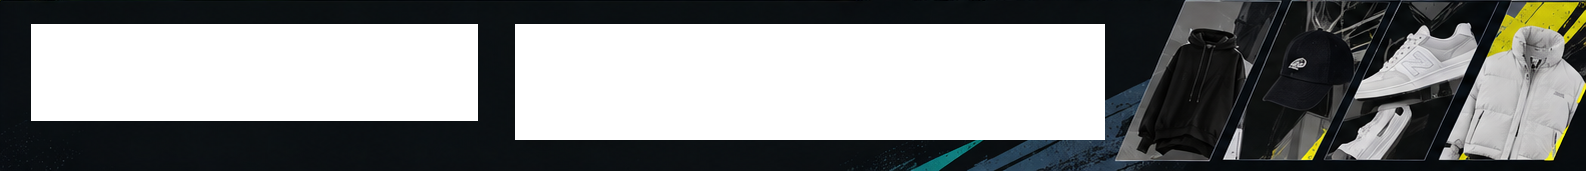
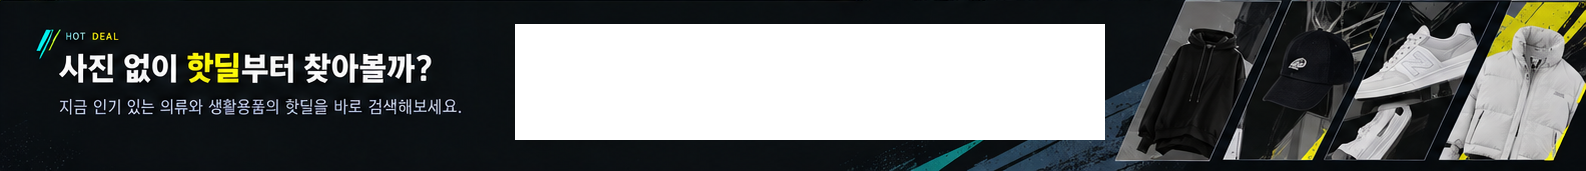
Restore original static typography and verify accessible controls

Changed region(s): [[0.0, 0.117, 0.309, 0.731]]

diff --git a/apps/web/src/styles.css b/apps/web/src/styles.css
@@ -17,23 +17,27 @@
 /* Original artwork under accessible DOM controls. Keep desktop coordinates immutable. */
 @media(min-width:768px){
  .header{background:#090c0f url('/artwork/header-surface.png') 0 0/1586px 55px no-repeat}
+ .header img{transform:translateY(-1px)}
  .header nav{gap:34px;font-size:19px;font-weight:500}
  .header nav .nav-active{font-size:20px;font-weight:750}
  .deals{background:#090e12 url('/artwork/deal-surface.png') 0 0/1586px 171px no-repeat}
- .hero{background-color:#fbff20;background-image:url('/artwork/hero-surface.png'),url('/artwork/subhead-fill.png'),url('/artwork/upload-copy-fill.png'),url('/artwork/upload-control-fill.png'),url('/artwork/upload-help-fill.png'),url('/artwork/steps-fill.png');background-position:0 0,50px 299px,202px 459px,182px 542px,289px 613px,59px 677px;background-size:1586px 766px,707px 44px,427px 77px,450px 70px,250px 25px,698px 68px;background-repeat:no-repeat}
+ .hero{background-color:#fbff20;background-image:url('/artwork/hero-surface.png'),url('/artwork/upload-copy-fill.png'),url('/artwork/upload-control-fill.png'),url('/artwork/upload-help-fill.png');background-position:0 0,202px 459px,182px 542px,289px 613px;background-size:1586px 766px,427px 77px,450px 70px,250px 25px;background-repeat:no-repeat}
  .hero-edge,.hero-collage{display:none}
  /* The distinctive hero lettering is retained in the original artwork, with semantic text for assistive technology. */
  .headline,.headline strong{color:transparent}
  .headline{font-size:52px;letter-spacing:-2.7px;top:237px}
  .subhead{font-size:30px;letter-spacing:-.3px}
+ /* Retain the original static lettering, while keeping its semantic DOM text. */
+ .subhead,.steps p,.deal-copy h2,.deal-copy em,.deal-copy>p,.deal-copy .eyebrow,.deal-copy .eyebrow>*{color:transparent}
  .upload-wrap{padding:0;background:transparent;clip-path:none}
  .upload-panel{background:transparent;clip-path:none}
  .upload-panel h2{top:113px}
  .upload-description{top:157px}
- .upload-cta{left:125px;top:194px}
+ .upload-cta{left:125px;top:194px;font-size:29px;clip-path:polygon(21px 0,calc(100% - 20px) 0,100% 22px,100% 45px,calc(100% - 19px) 100%,20px 100%,0 44px,0 22px)}
  .upload-icon{top:34px;left:305px}
  .upload-help{top:268px}
- .steps>div:before{content:'';display:block;width:53px;height:54px;background-size:100% 100%;flex-shrink:0}
+ .steps>div:before{content:'';display:block;width:53px;height:54px;flex-shrink:0;visibility:hidden}
+ .steps>div+div{border-left-color:transparent}
  .steps>div:nth-child(1):before{background-image:url('/artwork/step-shirt.png')}
  .steps>div:nth-child(2):before{background-image:url('/artwork/step-search.png')}
  .steps>div:nth-child(3):before{background-image:url('/artwork/step-bag.png')}
@@ -42,10 +46,26 @@
  .deal-copy h2{font-size:34px;letter-spacing:-.9px}
  .deal-copy>p{font-size:17.5px}
  .deal-filters button{position:relative;isolation:isolate;border:0;background:#677080;padding:0 18px}
+ .deal-filters{gap:0}
+ .deal-filters button{padding:0;justify-content:center}
+ .deal-filters button:nth-child(1){width:97px;margin-right:12px}
+ .deal-filters button:nth-child(2){width:116px;margin-right:8px}
+ .deal-filters button:nth-child(3){width:145px}
  .deal-filters button:before{content:'';position:absolute;inset:1px;background:#090e12;clip-path:inherit;z-index:-1}
  .deal-filters button[aria-pressed=true]{background:#ffff00}
- .search-field{border:0;background:#737985;isolation:isolate}
+ .search-field{height:54px;border:0;background:#737985;isolation:isolate;clip-path:polygon(8px 0,calc(100% - 12px) 0,100% 20px,calc(100% - 26px) 100%,0 100%,0 8px)}
+ .search-field input{padding-left:60px}
  .search-field:before{content:'';position:absolute;inset:1px;background:#090e12;clip-path:inherit;z-index:-1}
+}
+@media(min-width:768px) and (forced-colors:active){
+ .header,.hero,.deals{background:Canvas;color:CanvasText}
+ .headline,.headline strong,.subhead,.steps p,.deal-copy h2,.deal-copy em,.deal-copy>p,.deal-copy .eyebrow,.deal-copy .eyebrow>*{color:CanvasText}
+ .steps>div:before{display:none}
+ .steps svg{display:block}
+ .upload-wrap{border:2px solid ButtonText}
+ .upload-cta,.search-field,.deal-filters button{clip-path:none;border:2px solid ButtonText;background:ButtonFace;color:ButtonText}
+ .search-field:before,.deal-filters button:before{display:none}
+ .deal-filters button[aria-pressed=true]{outline:2px solid Highlight;outline-offset:2px}
 }
 @media(max-width:767px){.hero-collage{clip-path:polygon(20% 0,100% 0,100% 100%,0 100%,0 45%)}}
 @media(max-width:767px){

diff --git a/tests/e2e/home.spec.ts b/tests/e2e/home.spec.ts
@@ -12,6 +12,29 @@ const viewports = [
   { width: 360, height: 800 },
 ];
 
+test('high contrast keeps original-artwork captions readable and upload usable', async ({ page }) => {
+  await page.setViewportSize({ width: 1586, height: 992 });
+  await page.emulateMedia({ forcedColors: 'active' });
+  await page.goto('/');
+  await waitForArtwork(page);
+  // High-contrast mode removes decorative backgrounds. The corresponding DOM
+  // captions must remain readable rather than disappearing with their artwork.
+  for (const selector of ['.headline', '.subhead', '.steps p', '.deal-copy h2', '.deal-copy>p']) {
+    const colors = await page.locator(selector).evaluateAll(elements => elements.map(element => {
+      const color = getComputedStyle(element).color;
+      const sectionColor = getComputedStyle(element.closest('section')!).backgroundColor;
+      return { color, sectionColor };
+    }));
+    expect(colors.every(({ color, sectionColor }) => color !== 'transparent' && color !== 'rgba(0, 0, 0, 0)' && color !== sectionColor)).toBe(true);
+  }
+  await page.locator('#clothes-photo').setInputFiles(resolve('apps/web/public/artwork/hero-collage.png'));
+  await expect(page.getByRole('button', { name: '비슷한 옷 찾기', exact: true })).toBeVisible();
+  await page.getByRole('button', { name: '삭제', exact: true }).click();
+  await expect(page.getByRole('button', { name: '사진 올리기', exact: true })).toBeVisible();
+  await mkdir(captures, { recursive: true });
+  await page.screenshot({ path: resolve(captures, 'home-high-contrast.png'), fullPage: true });
+});
+
 for (const viewport of viewports) {
   test(`home renders functional controls without overflow at ${viewport.width}x${viewport.height}`, async ({ page }) => {
     await page.setViewportSize(viewport);

diff --git a/docs/deployment-readiness.md b/docs/deployment-readiness.md
@@ -6,7 +6,7 @@ Checked on 2026-10-09 (Asia/Seoul). This records verified deployment access, not
 
 - Repository created: https://github.com/NoNamad5196/ssandevisthan. The new repository was empty when created; no existing repository was modified. It is now private because its design assets and internal Notion contracts are not authorized for unrestricted source distribution.
 - GitHub CLI authentication works outside the restricted network sandbox. The initial sandboxed `gh auth status` failure was not an expired credential. Existing keyring authentication includes `repo` and `workflow` scope. Never print or copy its credential.
-- Cloudflare Pages project `ssandevisthan` was created on the existing account. The frontend is live at https://ssandevisthan.pages.dev. GitHub Actions successfully deployed both the frontend and backend from commit `f095991f621e437bcc6ba2e2f2fb12d0533ba04c`. External Chromium verified HTTP 200, production backend communication, the upload flow, and no page errors. Paid product search remains disabled pending its separate release gates.
+- Cloudflare Pages project `ssandevisthan` was created on the existing account. The frontend is live at https://ssandevisthan.pages.dev. GitHub Actions successfully deployed both the frontend and backend from commit `01bc435ecf72a788a191cf801c8b39c767e078e6`; its immutable frontend is https://978929ac.ssandevisthan.pages.dev. External Chromium verified HTTP 200, production backend communication, the upload flow, and no page errors. Paid product search remains disabled pending its separate release gates.
 - Supabase dashboard login works for organization **NoNamad / Free**. New-project creation is blocked because the owner has reached the **2 active free project** limit. No existing project was paused, deleted, upgraded, or reused.
 - The user declined pausing existing Supabase services and authorized an alternative free backend. A new dedicated Neon Free organization `org-cool-smoke-12777013` and project `lucky-sun-06718695` (`ssandevisthan`, AWS Singapore) were created with Postgres, Functions, and private `search-images` object storage. Neon Auth and AI Gateway are disabled because the application implements the contract's anonymous sessions itself and calls OpenAI directly. Existing Neon and Supabase resources were left unchanged.
 - A project-scoped Neon API key is stored only in ignored local deployment configuration and the encrypted GitHub `NEON_API_KEY` secret. Broad account-wide CLI OAuth was rejected by automatic approval review and was not granted; the narrower project key solved deployment access. The database connection and branch-only storage read/write credentials are kept in ignored `.secrets/neon.json` and passed only to server tooling.
@@ -101,3 +101,11 @@ Both automated deployments for commit `f095991f621e437bcc6ba2e2f2fb12d0533ba04c`
 The supplied OpenAI credential can read `gpt-6.1-sol` model metadata: GET returned HTTP 200 at 08:48 UTC, recorded in `docs/deployment/openai-model-access.json`. This confirms model access only. No paid image analysis, structured output, web search, product-search canary, ten-run cost smoke or quality holdout has yet succeeded or been claimed. Historical pilot expenditure remains unverified, so available budget is explicitly unknown rather than assumed to be USD 20.
 
 Public merchant inspections are recorded separately from LIVE search. All 12 inspected 11st pages were excluded. The Musinsa cached page and public stock response support a precise price/option observation, but its source policy restricts automated collection. Its runtime GET/POST and generic fallbacks are blocked; the parser remains offline technical validation only. This source is not counted as a live eligible recommendation.
+
+## Continued fidelity and quota verification
+
+The next desktop revision preserves the original static subhead, three-step captions/icons, and lower hot-deal copy directly in the source artwork. Accessible semantic text remains in the DOM, and forced-colors mode renders that text independently of decorative backgrounds. Upload text and controls, navigation, filters, and the search field remain live DOM controls. The header logo's one-pixel offset, desktop filter widths and upload/search button outlines were corrected.
+
+The resulting unmasked 1586×992 comparison has **1.713%** of pixels above the same 24/255 channel-difference criterion, down from 3.696%; mean channel difference is **1.625/255**. Logo, collage and headline regions have zero difference. Remaining differences are in the real control typography, icons and adjacent text backdrops. This is diagnostic evidence, not a newly invented acceptance threshold. The report is `docs/deployment/visual-regression.json`. Nine local home checks pass, including high-contrast reading and file selection, five viewport sizes and replacement/decoding/privacy behavior. The CI now retains successful screenshots and the unmasked comparison for three days as `visual-<commit>`; these are CI fixture/UI captures, never LIVE product-search evidence.
+
+The read-only **18:18 KST** account audit is `docs/deployment/quota-audit-2026-10-09.json`. GitHub Free reported 14 of 2,000 Actions minutes, with 1,986 remaining from the displayed values and net billable usage USD 0 after included discounts. Storage displayed 0 of 0.5 GB, a rounded number rather than zero bytes. Neon explicitly excludes Functions counters from Console usage summaries; the documented consumption API is unavailable to Free accounts and has no Functions metric. Thus actual account/project active-hour, waiting-hour and invocation headroom remains unknown. Pages monthly remaining builds likewise were not exposed in the inspected dashboard or documented API; deployment counts and Workers build minutes are not substitutes. No plan, permission or verification flag was changed.

diff --git a/docs/merchant-verification.md b/docs/merchant-verification.md
@@ -52,3 +52,14 @@
 **무신사 LIVE 수집은 비활성화한다.** [공식 이용약관](https://member.one.musinsa.com/agreement/service)의 2026-09-28 시행본 제11조 제2항 제9·10호에서 데이터 수집 및 소스에서 얻은 URL 접근에 관한 제한을 확인했다. 조사 시점에 수집 허가나 승인된 피드 근거가 없으므로, 네트워크 계층은 해당 출처를 `SOURCE_POLICY_BLOCKED`로 차단하고 일반 추출기로 되돌리지 않는다. HTTP 200은 수집 허가 증거가 아니다. 향후 승인된 피드 또는 수집 권한을 확보한 뒤 정책을 재검토해야 한다. 일반 매매 약관과 단일 SKU 구매 화면의 의미도 별도로 기록했지만, 이를 현재 수집 권한이나 활성화 근거로 바꾸지 않았다.
 
 합성 fixture 22개는 옵션·가격·이미지 연결, 예약/품절/대체 SKU 제외, 중복·불일치 재고, 조건부 가격 거절, 미확정 대여·배송비의 유지와 Gate 차단을 검증한다. 이 테스트들은 네트워크·구매·유료 API 호출 없이 실행된다.
+
+## 추가 공개 판매처 표본 — 적격 후보 미확보
+
+2026-10-09 09:14 UTC 이후 국내 브랜드 공식몰 등을 포함한 새 페이지 10개를 추가로 읽었다. HTTP 200은 8건이었으며 상품 페이지가 아닌 응답 1건, G마켓 403 1건은 즉시 제외했다. 과거 URL을 재시도하거나 차단을 우회하지 않았다.
+
+- MAHAGRID 상품 5561은 `ProductGroup.hasVariant`의 검정/S SKU, 34,000원, 재고·이미지가 옵션 state와 일치했다. 새상품 상태와 비대여 거래 근거가 확인되지 않아 제외했다.
+- FCMM 상품 4617은 구조화 가격 49,000원과 현재 할인 가격 29,000원이 충돌했다.
+- 르고르지 상품 124는 새상품·국내배송·759,000원과 정확한 SKU/이미지를 확인했으나 재고관리 해제 상태에서 해당 옵션의 실제 재고를 확정할 수 없었다. 비대여 근거도 미확정이다.
+- ONERM, 롯데ON 및 파타고니아 표본은 품절이었다. 리본즈 표본은 정확한 사이즈와 국내 출고 등 근거가 부족했다.
+
+추가 11st 표본 8764511581에서는 사이즈 26의 재고 5개가 있었지만 110,000원은 `StrikethroughPrice`이고 실제 옵션에는 쿠폰 관련 97,900원이 표시됐다. 취소선 가격을 무조건 구매가로 바꾸지 않았다. 전체 추가 관측에서도 적격 추천은 0건이며 유료 OpenAI 검색을 수행한 결과가 아니다. 원본 응답과 시각별 조사 목록은 Git에서 제외한 `.cache/merchant-probes/`에 남긴다.
